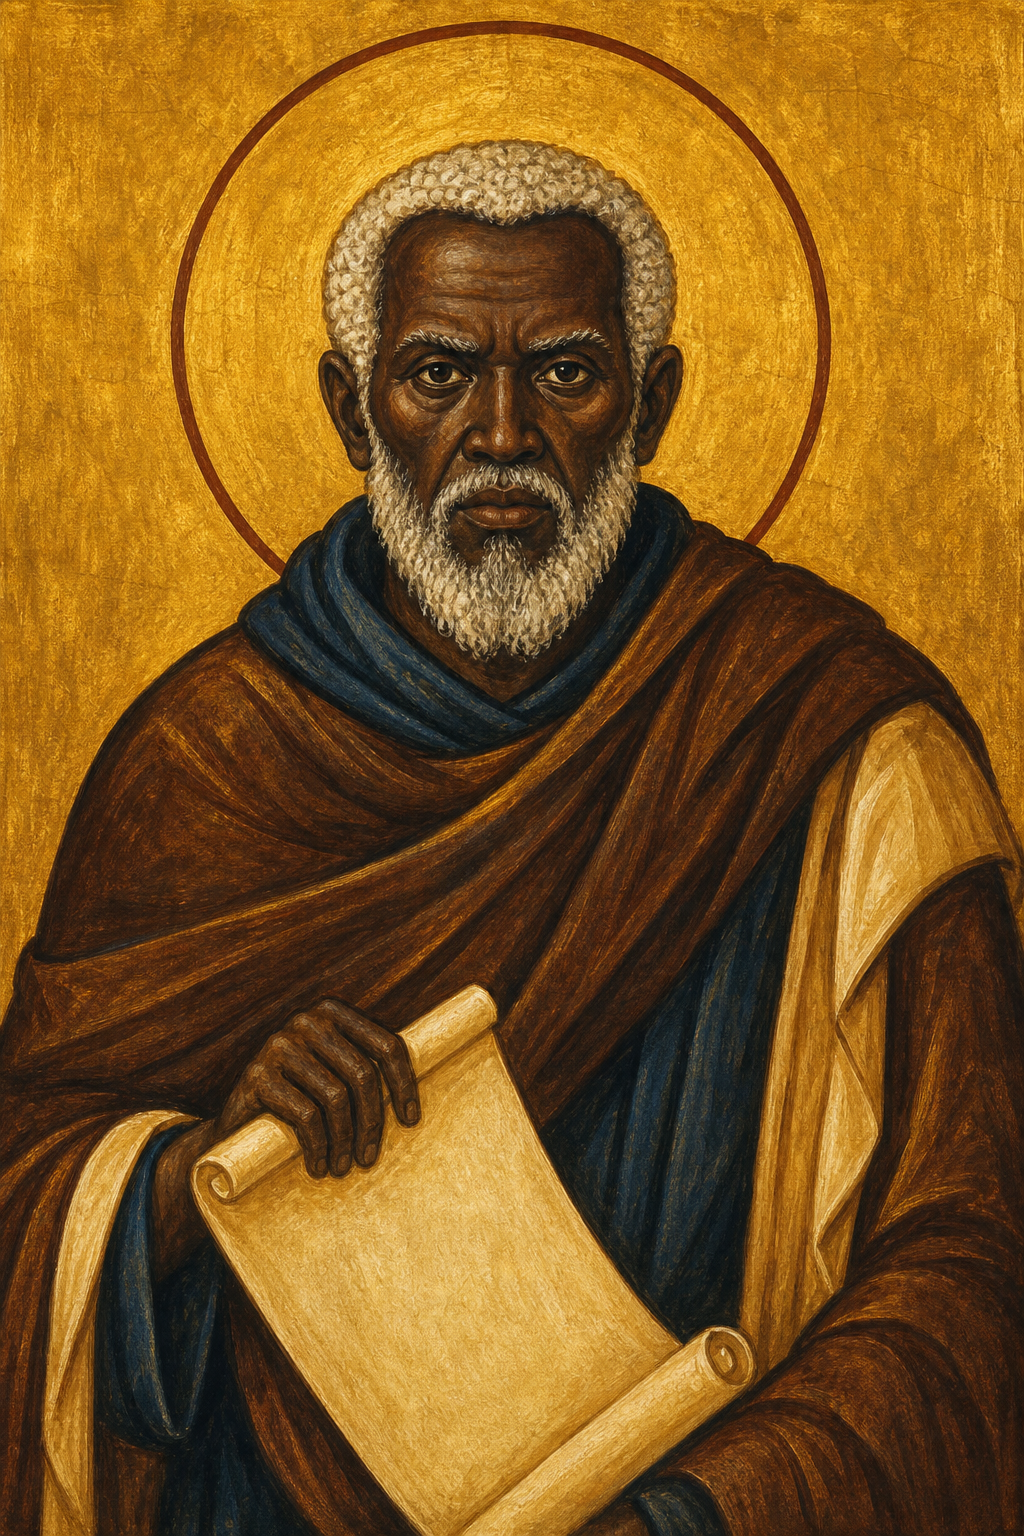
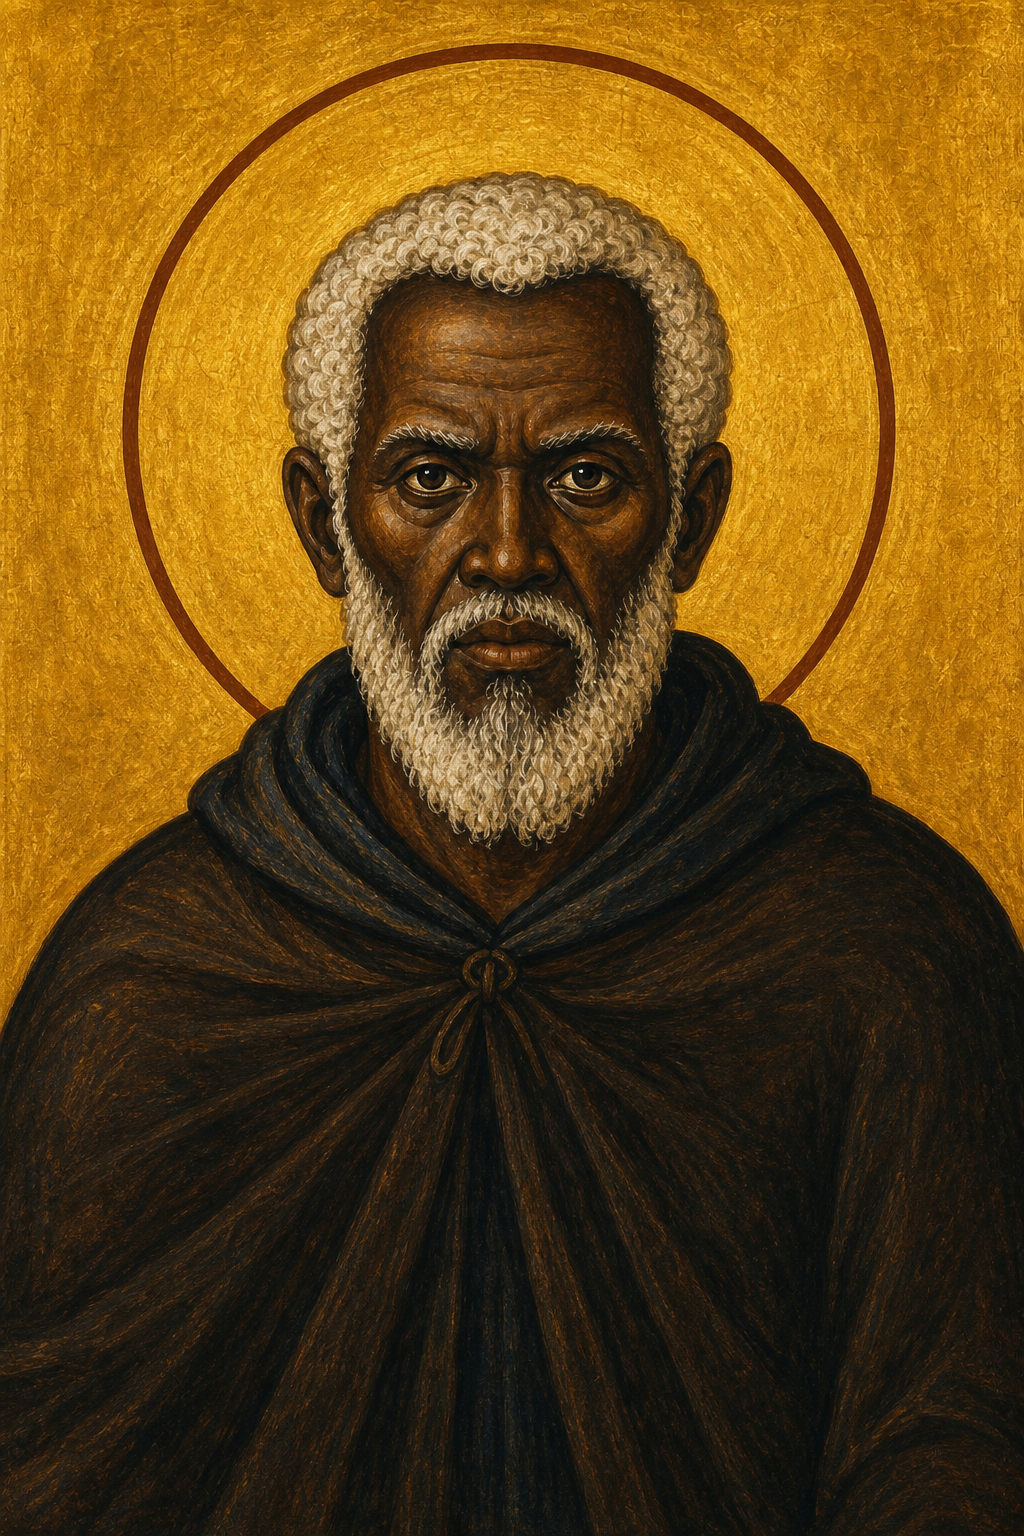
Add Moses the Black life imagery

diff --git a/apps/web/src/app/data/saints.ts b/apps/web/src/app/data/saints.ts
@@ -29,12 +29,26 @@ export type ResearchSection = {
   body: string[];
   bullets?: string[];
   eyebrow?: string;
+  image?: {
+    alt: string;
+    caption?: string;
+    height: number;
+    src: string;
+    width: number;
+  };
   references: string[];
   title: string;
 };
 
 export type TimelineEntry = {
   body: string[];
+  image?: {
+    alt: string;
+    caption?: string;
+    height: number;
+    src: string;
+    width: number;
+  };
   label: string;
   references: string[];
   title: string;
@@ -85,10 +99,10 @@ export const references: Record<string, Reference> = {
   },
   fellowship: {
     id: "fellowship",
-    title: "Fellowship",
+    title: "Fellowship Life",
     publisher: "Fellowship of St. Moses the Black",
-    url: "https://mosestheblack.org/",
-    note: "Modern Orthodox organization connecting ancient African Christianity, the African American experience, and racial reconciliation.",
+    url: "https://mosestheblack.org/resources/life/",
+    note: "A modern Orthodox life of Saint Moses with expanded narrative details, including the shepherd by the Nile, the two sheep, and later monastic stories.",
   },
 };
 
@@ -186,10 +200,20 @@ export const mosesTimeline: TimelineEntry[] = [
     title: "A Feared Former Life",
     body: [
       "The tradition remembers Moses as enslaved in youth, dismissed by his master, and later feared as a violent robber. The story begins with an intentionally stark picture of sin, strength, and notoriety.",
+      "One remembered story tells of a shepherd who had offended him. Moses recognized the man from across the Nile and crossed the water to find him. The shepherd, terrified by Moses' approach, abandoned his flock and hid by burying himself in the sand.",
+      "When Moses could not find the man, he took two of the sheep instead. The story is severe, but it shows why people fled at the sight of him and why his later repentance was remembered with such force.",
       "This beginning matters because the sources do not soften the darkness around him. Moses is not introduced as a misunderstood hero, but as a man who had become dangerous to others and deeply wounded in his own soul.",
       "His physical strength, which had once been joined to violence, later becomes part of the story of his endurance in ascetic life. The same intensity that made him feared is slowly redirected toward repentance.",
     ],
-    references: ["oca-life", "antioch", "st-takla"],
+    image: {
+      alt: "Icon-inspired image of younger Moses the Black taking two sheep while a frightened shepherd hides in the sand",
+      caption:
+        "A remembered scene from Moses' former life: the shepherd hides in the sand while Moses takes two sheep from the flock.",
+      height: 1536,
+      src: "/images/moses-the-robber-sheep.png",
+      width: 1024,
+    },
+    references: ["oca-life", "antioch", "st-takla", "fellowship"],
   },
   {
     label: "Conversion",
@@ -199,6 +223,14 @@ export const mosesTimeline: TimelineEntry[] = [
       "The movement into the desert was not an escape into privacy. In the monastic world of Scetis, Moses came under obedience, learned prayer, and accepted the discipline of elders who knew the life he was seeking.",
       "His conversion is remembered as both decisive and costly. He turns toward God, but the sources also show that old passions do not disappear simply because he has entered the monastery.",
     ],
+    image: {
+      alt: "Icon-inspired image of younger Moses the Black walking toward a desert monastery where an elder monk receives him",
+      caption:
+        "Moses turns toward the desert monastery, where the elders begin to receive him into repentance and obedience.",
+      height: 1536,
+      src: "/images/moses-turning-toward-desert.png",
+      width: 1024,
+    },
     references: ["oca-life", "st-takla"],
   },
   {
@@ -209,6 +241,14 @@ export const mosesTimeline: TimelineEntry[] = [
       "This part of his life is especially important because it refuses a simple before-and-after story. Moses repents, but then he must learn how to live as a penitent man day after day.",
       "His hidden service to the brethren shows repentance taking practical form. Carrying water at night is a small, bodily act, but in the tradition it becomes a sign that humility had begun to reshape his strength.",
     ],
+    image: {
+      alt: "Icon-inspired image of Saint Moses the Black carrying water at night during his long ascetic struggle",
+      caption:
+        "Moses carries water at night for the brothers, a hidden act of service within the long work of repentance.",
+      height: 1536,
+      src: "/images/moses-long-struggle.png",
+      width: 1024,
+    },
     references: ["oca-life", "st-takla"],
   },
   {
@@ -219,6 +259,14 @@ export const mosesTimeline: TimelineEntry[] = [
       "The image is simple and severe: his sins are falling behind him, and he does not fully see them, yet he has been asked to examine another person. Moses answers the situation with a living parable instead of an argument.",
       "This story is one reason he is remembered not only as a penitent, but as a teacher of mercy. His authority comes from self-knowledge, not from eagerness to correct others.",
     ],
+    image: {
+      alt: "Icon-inspired image of Saint Moses the Black carrying a basket of sand that spills behind him",
+      caption:
+        "Moses carries a leaking basket of sand as an image of the sins he cannot fully see behind him.",
+      height: 1536,
+      src: "/images/moses-basket-of-sand.png",
+      width: 1024,
+    },
     references: ["antioch", "sayings"],
   },
   {
@@ -229,6 +277,14 @@ export const mosesTimeline: TimelineEntry[] = [
       "The remembered numbers vary, but the meaning is consistent: Moses became a father to others. His past did not prevent him from becoming a guide; rather, his repentance became part of the wisdom by which he guided.",
       "His priesthood also deepens the contrast at the heart of his life. The hands once associated with violence become hands of blessing, service, and prayer within the desert community.",
     ],
+    image: {
+      alt: "Icon-inspired image of Saint Moses the Black teaching and blessing younger monks as a spiritual father",
+      caption:
+        "Moses is remembered as a priest and spiritual father, guiding brothers in the desert through repentance, blessing, and prayer.",
+      height: 1536,
+      src: "/images/moses-spiritual-father.png",
+      width: 1024,
+    },
     references: ["oca-life", "st-takla"],
   },
   {
@@ -239,6 +295,14 @@ export const mosesTimeline: TimelineEntry[] = [
       "The tradition presents this death as a final act of repentance and peace. Moses does not meet violence with violence, even though violence had once defined his life.",
       "His martyrdom completes the arc remembered by the Church: the robber becomes monk, the monk becomes father, and the father remains in peace when death comes to the monastery.",
     ],
+    image: {
+      alt: "Icon-inspired image of Saint Moses the Black blessing monks at Scetis before his martyrdom",
+      caption:
+        "Moses remains at Scetis in peace, blessing the brothers and refusing to meet the coming violence with violence.",
+      height: 1536,
+      src: "/images/moses-remaining-at-scetis.png",
+      width: 1024,
+    },
     references: ["oca-life", "antioch", "st-takla"],
   },
 ];
@@ -264,6 +328,14 @@ export const mosesTeachingSections: ResearchSection[] = [
       "Moses does not excuse sin. Instead, he places judgment under the fear of God and the knowledge of his own need for mercy.",
       "His humility is therefore strong, not evasive. It teaches that clear sight begins with repentance in the heart of the one who sees.",
     ],
+    image: {
+      alt: "Icon-inspired image of Saint Moses the Black carrying a basket of sand that spills behind him",
+      caption:
+        "Saint Moses carrying the basket of sand, a remembered image of his refusal to condemn a brother while his own sins fell behind him unseen.",
+      height: 1536,
+      src: "/images/moses-basket-of-sand.png",
+      width: 1024,
+    },
     references: ["antioch", "sayings"],
   },
   {

diff --git a/apps/web/src/components/ui/Figure.tsx b/apps/web/src/components/ui/Figure.tsx
@@ -1,0 +1,35 @@
+import Image from "next/image";
+import { classNames } from "@/lib/classNames";
+import styles from "./ui.module.css";
+
+type FigureProps = {
+  alt: string;
+  caption?: string;
+  className?: string;
+  height: number;
+  src: string;
+  width: number;
+};
+
+export function Figure({
+  alt,
+  caption,
+  className,
+  height,
+  src,
+  width,
+}: FigureProps) {
+  return (
+    <figure className={classNames(styles.figure, className)}>
+      <Image
+        alt={alt}
+        className={styles.figureImage}
+        height={height}
+        sizes="(max-width: 760px) 100vw, 420px"
+        src={src}
+        width={width}
+      />
+      {caption ? <figcaption>{caption}</figcaption> : null}
+    </figure>
+  );
+}

diff --git a/apps/web/src/components/saints/Timeline.tsx b/apps/web/src/components/saints/Timeline.tsx
@@ -2,6 +2,7 @@ import {
   getReferences,
   type TimelineEntry,
 } from "@/app/data/saints";
+import { Figure } from "@/components/ui/Figure";
 import { SourceLinks } from "@/components/ui/SourceLinks";
 import styles from "./saints.module.css";
 
@@ -17,6 +18,7 @@ export function Timeline({ entries }: TimelineProps) {
           <p className={styles.timelineLabel}>{entry.label}</p>
           <div className={styles.timelineBody}>
             <h3>{entry.title}</h3>
+            {entry.image ? <Figure {...entry.image} /> : null}
             {entry.body.map((paragraph) => (
               <p key={paragraph}>{paragraph}</p>
             ))}

diff --git a/apps/web/src/components/saints/ResearchSectionList.tsx b/apps/web/src/components/saints/ResearchSectionList.tsx
@@ -2,6 +2,7 @@ import {
   getReferences,
   type ResearchSection as ResearchSectionData,
 } from "@/app/data/saints";
+import { Figure } from "@/components/ui/Figure";
 import { Prose } from "@/components/ui/Prose";
 import { Section } from "@/components/ui/Section";
 
@@ -20,6 +21,7 @@ export function ResearchSectionList({ sections }: ResearchSectionListProps) {
           title={section.title}
         >
           <Prose>
+            {section.image ? <Figure {...section.image} /> : null}
             {section.body.map((paragraph) => (
               <p key={paragraph}>{paragraph}</p>
             ))}

diff --git a/apps/web/src/components/ui/ui.module.css b/apps/web/src/components/ui/ui.module.css
@@ -73,6 +73,27 @@
   padding-left: 22px;
 }
 
+.figure {
+  display: grid;
+  gap: 10px;
+  width: min(420px, 100%);
+  margin-top: 8px;
+}
+
+.figureImage {
+  width: 100%;
+  height: auto;
+  border: 1px solid var(--color-border);
+  border-top-color: var(--color-gold);
+  box-shadow: var(--shadow-panel);
+}
+
+.figure figcaption {
+  color: var(--color-subtle);
+  font-size: 14px;
+  line-height: 1.5;
+}
+
 .factGrid {
   display: grid;
   grid-template-columns: repeat(3, minmax(0, 1fr));
